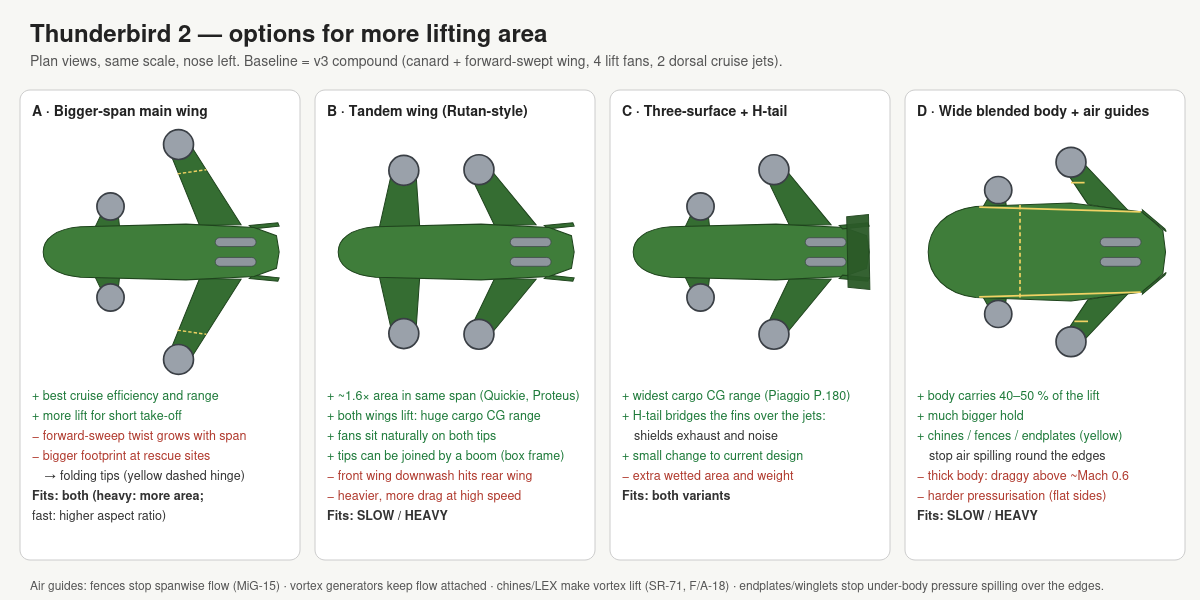
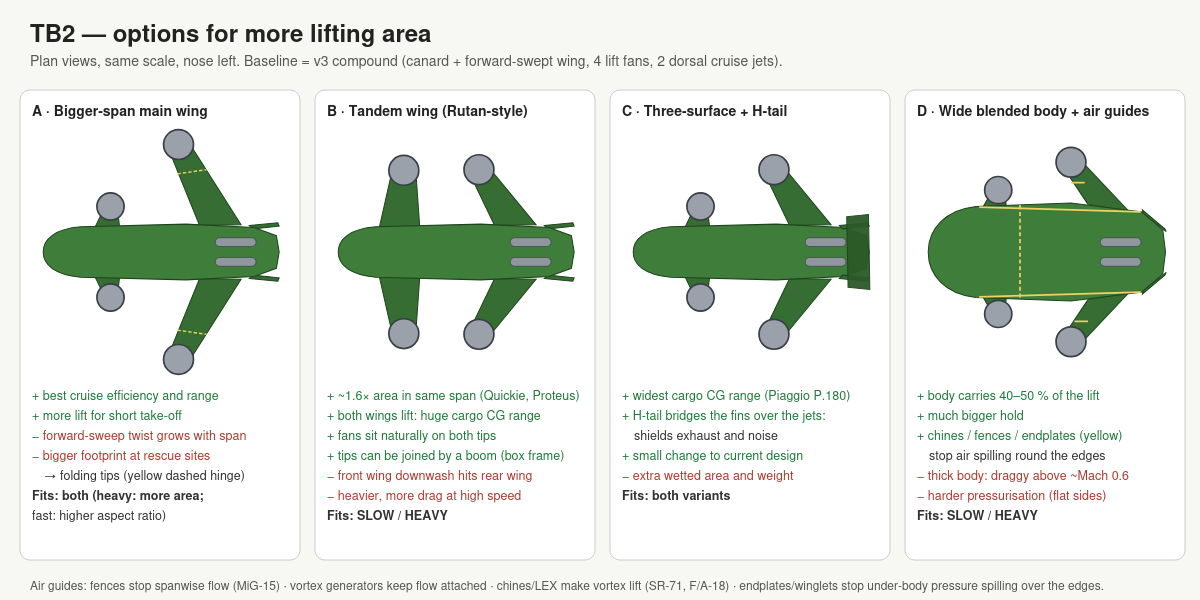
rename to TB2

Changed region(s): [[0.0308, 0.03, 0.4625, 0.09]]

diff --git a/th-2-strip.py b/th-2-strip.py
@@ -1,4 +1,4 @@
-# Thunderbird 2 redesign - first-order STO / STOL strip-length estimate (see th-2-re-design-ideas.md sections 11, 18)
+# TB2 redesign - first-order STO / STOL strip-length estimate (see th-2-re-design-ideas.md sections 11, 18)
 # Point-mass simulation: fans tilted forward by a fixed angle (best angle searched), wing+body lift,
 # ground roll to lift-off, then airborne to 15 m (50 ft). Landing: steep approach + braked roll.
 # Variants, physics and margins come from th-2-sizing.py so the two scripts can't drift apart.

diff --git a/th-2-sizing.py b/th-2-sizing.py
@@ -1,4 +1,4 @@
-# Thunderbird 2 redesign - rough first-order sizing model (see th-2-re-design-ideas.md sections 8-14, 18, 19)
+# TB2 redesign - rough first-order sizing model (see th-2-re-design-ideas.md sections 8-14, 18, 19)
 # Run: python3 th-2-sizing.py   - edit VARIANTS (shared with th-2-strip.py) to try variants.
 import math
 g, R_AIR = 9.81, 287.05

diff --git a/README.md b/README.md
@@ -1,6 +1,6 @@
 # tb2-derived
 
-Designs derived from Thunderbird 2 (*Thunderbirds*, 1965), playing "what if" scenarios:
+Designs inspired by Thunderbird 2 from *Thunderbirds* (1965), referred to here as **TB2**, playing "what if" scenarios:
 what would it take to make TB2 a physically plausible heavy-lift VTOL rescue transport?
 
 ![Current design](th-2-heavy.png)
@@ -14,7 +14,9 @@ already cover it (notes §19).
 |---|---|
 | Layout | Tandem wing + wide blended body |
 | Lift | 6 × Ø14 m tilting ducted fans in a ladder frame |
-| Gross (VTOL / STO) | 200 t / 270 t |
+| Gross VTOL | 200 t at 2,500 m / 40 °C (≈ 228 t at sea level) |
+| Gross STO | 270 t (structural limit) |
+| Empty | ~182 t, so VTOL leaves ~18 t for fuel + payload |
 | Cruise | ~330 kn |
 | Hold | 50 × 20 m, 3 corridors (vehicles, small helicopters, livestock, people) |
 | VTOL payload up to 2,500 m / 40 °C (300 km shuttle) | ~9 t (open decision D10) |
@@ -48,3 +50,9 @@ python3 th-2-strip.py    # take-off / landing distances per condition
 
 Edit `VARIANTS` in `th-2-sizing.py` to try other configurations; `th-2-strip.py`
 imports the same variants, physics and margins.
+
+## Disclaimer
+Non-commercial fan / engineering study. Not affiliated with or endorsed by the
+rights holders. *Thunderbirds* and Thunderbird 2 are created by Gerry and Sylvia
+Anderson; the series and its trademarks belong to their respective owners
+(currently ITV Studios).

diff --git a/th-2-conversation-log.md b/th-2-conversation-log.md
@@ -276,3 +276,23 @@ so, drop it.
   ~4,300 m³ hold, VTOL + STO in one airframe, water.
 - Reframed as a short-strip bulk lifter for the last few hundred km. Notes §21,
   D11 updated.
+
+### 27. Is "Gross 200 t / 270 t" still correct?
+**Answer:** Yes. 200 t is the VTOL limit at the 2,500 m / 40 °C design point
+(≈ 228 t at sea level); 270 t is the structural STO limit (strip sim: ≤ 700 m in
+all conditions). What changed is the empty weight (182 t), leaving ~18 t for
+fuel + payload in VTOL. Labels in README and notes §0.1 made explicit.
+
+### 28. Is "Thunderbird" still protected? Reduce it to TB2?
+**Answer (not legal advice):**
+- The episodes and the craft design are copyrighted (UK film copyright: 70 years
+  after the last key author's death; Gerry Anderson d. 2012) and held by
+  ITV Studios.
+- The name is protected by trademark (use in trade), not copyright.
+- "TB2" is still a clear reference; what lowers risk is framing: a non-commercial
+  study, credited, not affiliated.
+**Done:**
+- Current titles → "TB2" (notes, scripts, fan-tilt and wing-options sheets,
+  re-rendered).
+- README keeps one credited reference and adds a disclaimer.
+- Archived drawings and history sections left unchanged as record.

diff --git a/th-2-re-design-ideas.md b/th-2-re-design-ideas.md
@@ -1,4 +1,4 @@
-# Thunderbird 2 — "Flyable" Redesign Ideas
+# TB2 — "Flyable" Redesign Ideas
 
 Working notes on turning the original *Thunderbirds* (1965) Thunderbird 2 into a
 physically plausible heavy-lift VTOL transport, while keeping the spirit of the bulky
@@ -38,7 +38,7 @@ green hull.
 | Size | ~82 m long, ~66 m span, body ~26 m wide, fins ~25 m high |
 | Lift fans | 6 × Ø14 m tilting ducted in ladder bays (pivots on inner + outer rails, z ≈ 9 m); also cruise propulsors |
 | Cruise | fans only, ~330 kn, L/D ~9 |
-| Gross | 200 t VTOL / 270 t STO (structure for 270 t at 2.0 g) |
+| Gross | VTOL 200 t at the 2,500 m / 40 °C design point (≈ 228 t at sea level); STO 270 t structural limit (2.0 g) |
 | Empty | ~182 t (incl. ~15 t rails, ~9 t hold, ~2 t soft-field gear) |
 | Hold | 50 × 20 m, 3 corridors (centre 7 × 5 m high, sides 6 × 4.2 m), ≈ 4,300 m³, 3 rear ramps |
 | VTOL payload (up to 2,500 m / 40 °C) | **~9 t** (300 km shuttle) / none (1,500 km) |
